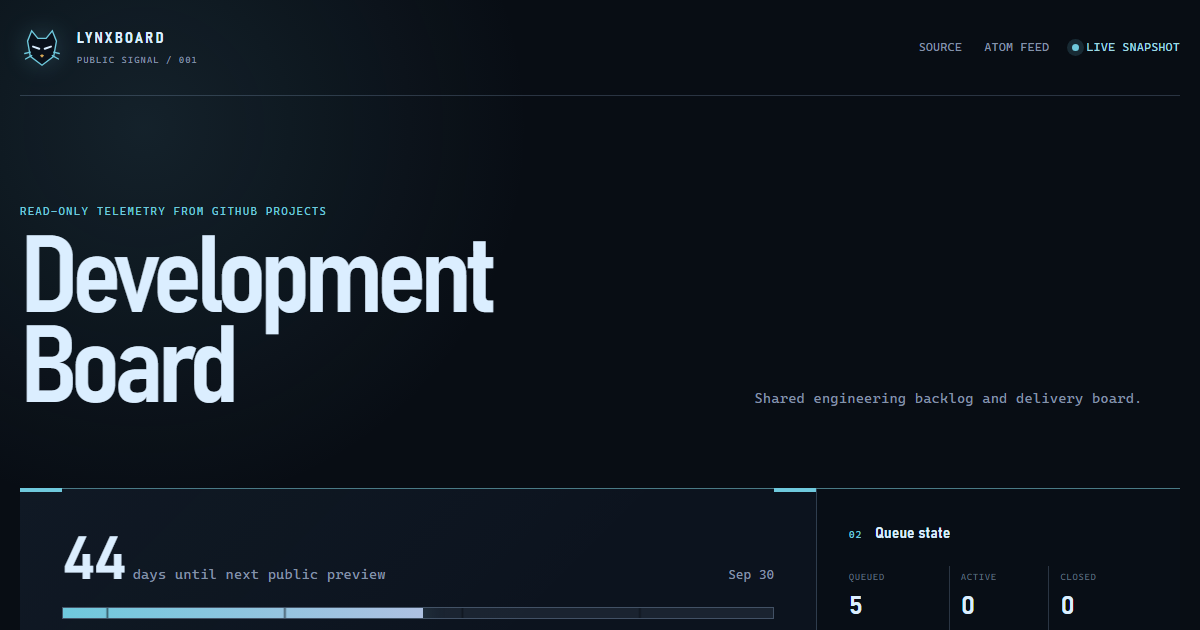
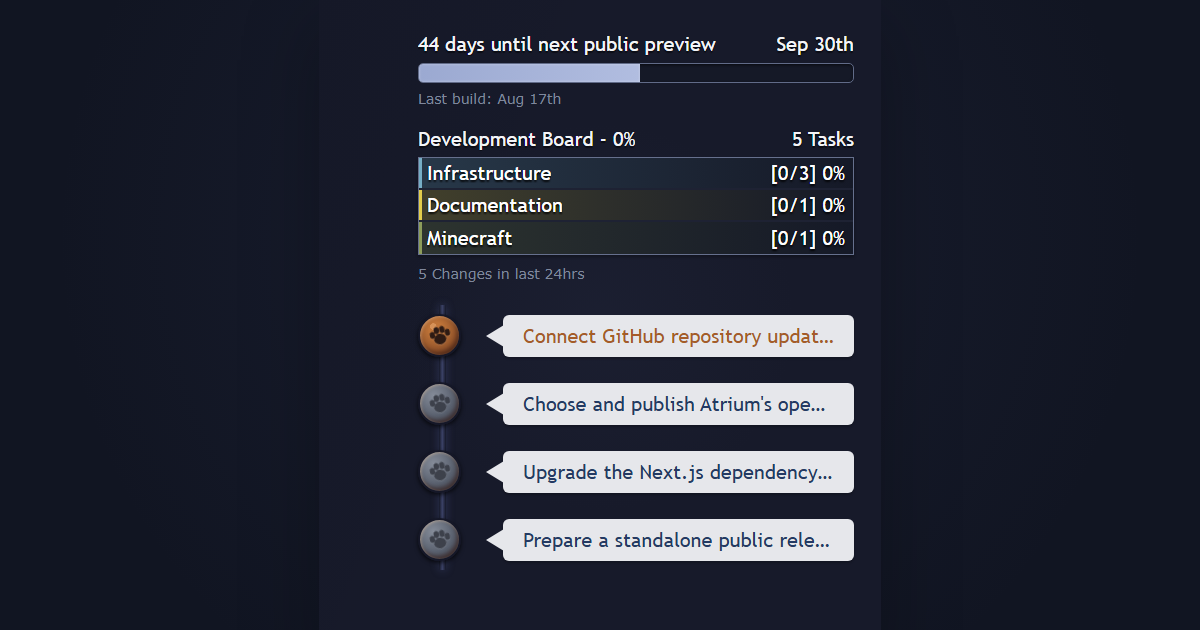
feat: refresh public Project data every five minutes

diff --git a/docs/research.md b/docs/research.md
@@ -41,3 +41,18 @@ adapter derives presentation data, and the public surface stays disposable.
 - All public HTML is static; the browser cannot query GitHub with privileged credentials.
 - The workflow has read-only repository permission except for the isolated Pages deploy
   job, which receives only `pages: write` and `id-token: write`.
+
+## Refresh latency
+
+GitHub's scheduled workflows support a shortest interval of five minutes:
+[Workflow syntax for scheduled events](https://docs.github.com/en/actions/reference/workflows-and-actions/workflow-syntax#onschedule).
+The widget polls the already-sanitized public snapshot every 30 seconds while visible,
+so an open embed picks up a successful deployment without a page reload.
+
+GitHub documents `projects_v2_item` webhooks only for organization Projects, and account
+webhooks cannot be created for personal user resources:
+[Webhook events and payloads](https://docs.github.com/en/webhooks/webhook-events-and-payloads#projects_v2_item),
+[Types of webhooks](https://docs.github.com/en/webhooks/types-of-webhooks).
+The current user-owned Project therefore cannot provide true event-driven item updates.
+The workflow already accepts a `project-sync` repository dispatch so an organization
+Project and GitHub App receiver can be added later without changing the widget contract.

diff --git a/CHANGELOG.md b/CHANGELOG.md
@@ -1,5 +1,13 @@
 # Changelog
 
+## 0.2.0 — 2026-08-17
+
+- Replace the full dashboard with the supplied compact progress-panel composition.
+- Add the standalone `/widget/` iframe and reusable `<lynx-board>` web component.
+- Poll visible widgets for newly published snapshots without exposing a GitHub token.
+- Reduce the Project refresh schedule from 30 minutes to GitHub's five-minute minimum.
+- Accept a future `project-sync` repository dispatch for event-driven organization setups.
+
 ## 0.1.0 — 2026-08-17
 
 - Launch the responsive LynxBoard public progress surface.

diff --git a/README.md b/README.md
@@ -11,6 +11,9 @@ LynxBoard turns GitHub Project items into a compact progress view with a milesto
 area totals, current priorities, and recent activity. The browser receives only a
 sanitized static snapshot—never a token.
 
+GitHub Actions refreshes the source snapshot every five minutes. An open widget checks
+for the newly published snapshot every 30 seconds by default.
+
 ## Embed on any site
 
 Use the custom element when you control the page HTML:

diff --git a/tasks/todo.md b/tasks/todo.md
@@ -24,6 +24,6 @@
 - [x] Publish the reusable `<lynx-board>` module.
   - Acceptance: a separate host page can load `embed.mjs` and render a sandboxed widget.
   - Verify: browser host-page smoke test.
-- [ ] Enable and verify the five-minute Project sync.
+- [x] Enable and verify the five-minute Project sync.
   - Acceptance: schedule, manual dispatch, Pages, and live JSON checks succeed.
   - Verify: GitHub Actions plus live browser checks.
